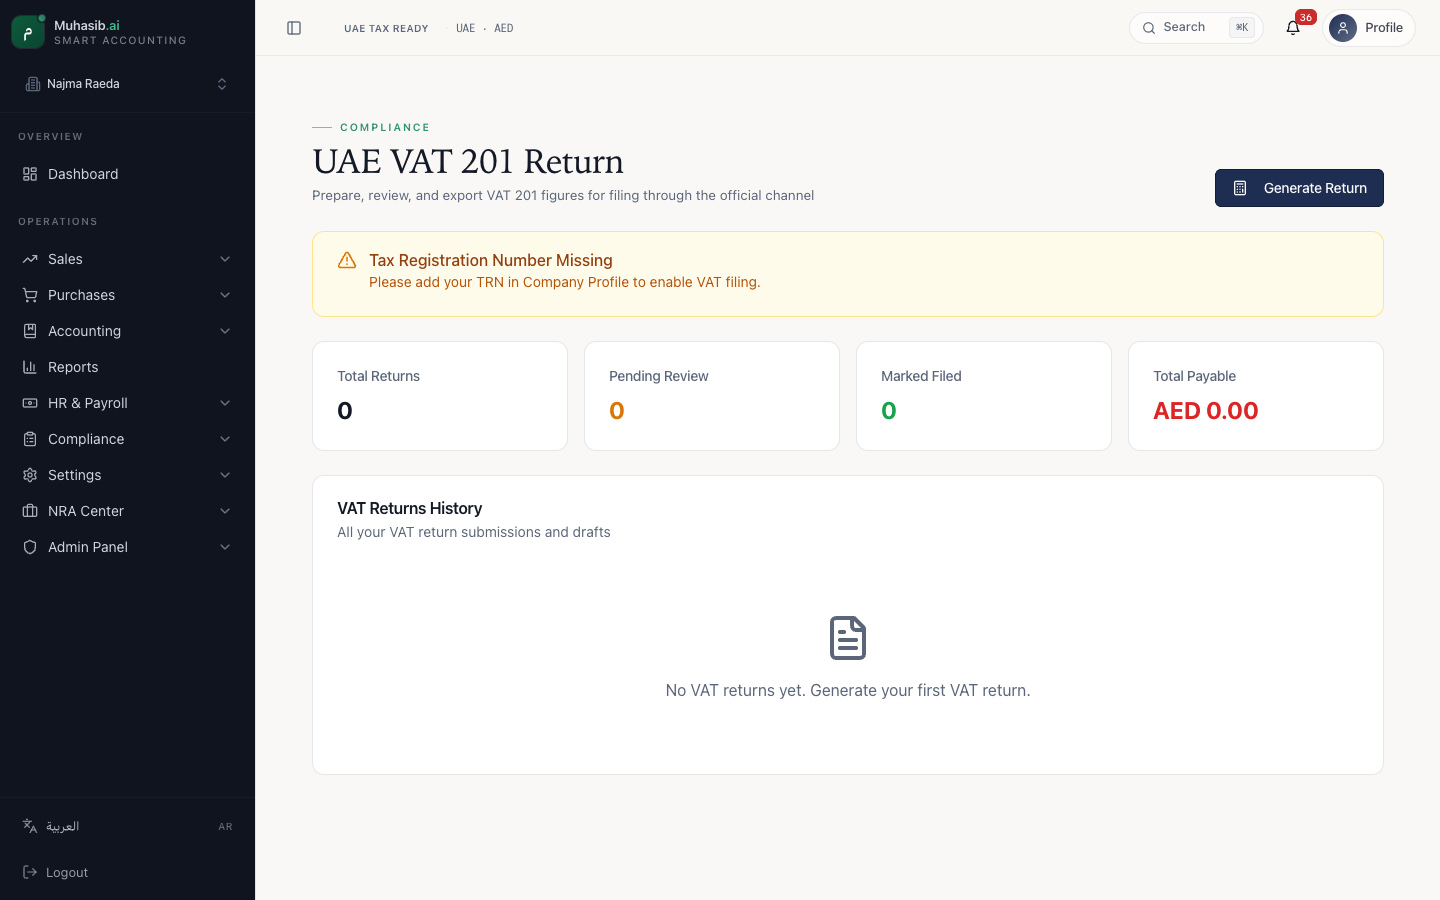
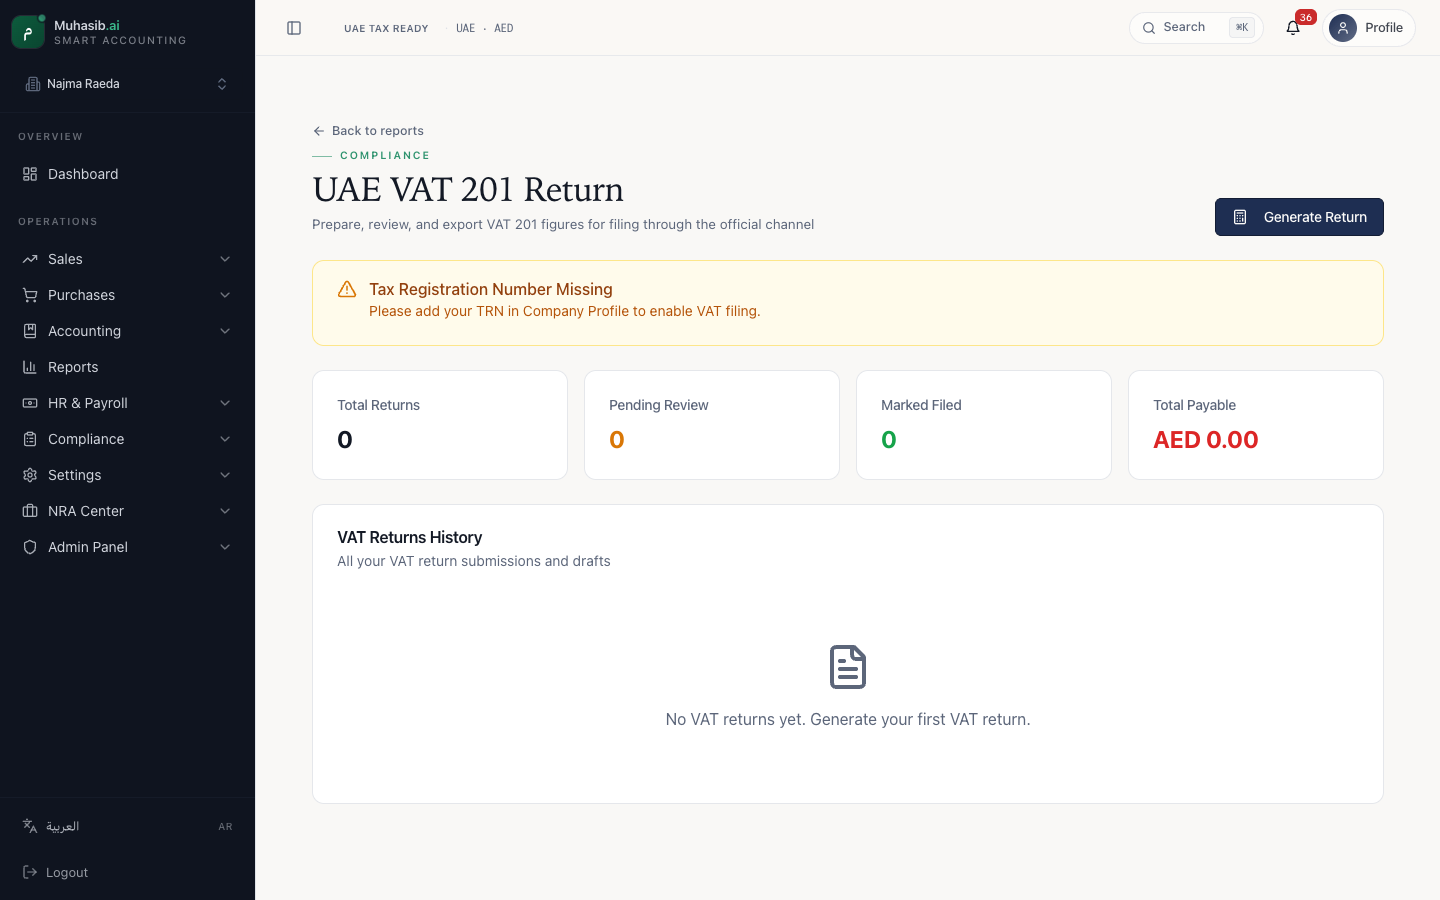
Harden benchmark crawl rate limits

diff --git a/server/middleware/rateLimit.ts b/server/middleware/rateLimit.ts
@@ -171,9 +171,9 @@ export const limiterProfiles = {
   read: {
     // Relaxed for GET-heavy dashboards: each page view fires 8-15 GETs and
     // shared office IPs multiply that, so the ceiling must stay far above
-    // legitimate navigation while still capping abuse.
+    // legitimate navigation/report review crawls while still capping abuse.
     windowMs: envInt("RL_READ_WINDOW_MS", 60_000),
-    max: envInt("RL_READ_MAX", 1200),
+    max: envInt("RL_READ_MAX", 3000),
     message: "Too many requests. Please try again later.",
   } as RouteLimit,
 };

diff --git a/docs/qa/2026-06-21-benchmark-audit/03-cfo-audit-report.md b/docs/qa/2026-06-21-benchmark-audit/03-cfo-audit-report.md
@@ -22,5 +22,3 @@ Muhasib.ai has enough benchmark evidence to rank gaps, but any score below 5 mea
 | Priority |Area |Finding |Evidence |Required fix |
 | --- |--- |--- |--- |--- |
 | P1 |Rate-limit pressure |/reports hit API 429 during benchmark crawl. |{"blank":true,"failureText":null,"pageErrors":[],"apiFailures":["GET 429 https://nr-ai-production.up.railway.app/api/companies","GET 429 https://nr-ai-production.up.railway.app/api/auth/me"]} |Tune audit pacing or production read-rate limits; confirm normal manual usage is unaffected. |
-| P1 |Report shell |Cash Flow Statement is missing benchmark shell controls. |back=false, export=false, period=true |Bring report into shared shell or add equivalent back/export/period controls. |
-| P1 |Report shell |VAT Return is missing benchmark shell controls. |back=false, export=true, period=true |Bring report into shared shell or add equivalent back/export/period controls. |

diff --git a/docs/qa/2026-06-21-benchmark-audit/competitor-scorecard.md b/docs/qa/2026-06-21-benchmark-audit/competitor-scorecard.md
@@ -18,7 +18,7 @@ Target: https://nr-ai-production.up.railway.app
 | --- |--- |--- |
 | Accounting integrity |2 |GL balances, subledger tie-outs, period lock, audit trail. |
 | UAE tax and compliance |2 |VAT 201, corporate tax, WPS, e-invoice readiness, Arabic/RTL. |
-| Report center and precision |3 |Catalog discovery, one-report view, source basis, export, drilldown. |
+| Report center and precision |4 |Catalog discovery, one-report view, source basis, export, drilldown. |
 | Receivables and payables |3 |Invoices, credit notes, customer/vendor balances, bills, payments. |
 | Banking and reconciliation |3 |Statement import, match rules, unreconciled queue, cash proof. |
 | Payroll, inventory, and assets |3 |Payroll/WPS, inventory valuation/movement, fixed assets, depreciation. |

diff --git a/docs/qa/2026-06-21-benchmark-audit/02-reviewer-memo.md b/docs/qa/2026-06-21-benchmark-audit/02-reviewer-memo.md
@@ -14,8 +14,8 @@
 | --- |--- |--- |--- |--- |--- |--- |
 | Profit & Loss |Financial Statements |Pass |yes |yes |yes |screenshots/report-profit-loss.png |
 | Balance Sheet |Financial Statements |Pass |yes |yes |yes |screenshots/report-balance-sheet.png |
-| Cash Flow Statement |Financial Statements |Pass |no |no |yes |screenshots/report-cash-flow.png |
-| VAT Return |Tax |Pass |no |yes |yes |screenshots/report-vat-return.png |
+| Cash Flow Statement |Financial Statements |Pass |yes |yes |yes |screenshots/report-cash-flow.png |
+| VAT Return |Tax |Pass |yes |yes |yes |screenshots/report-vat-return.png |
 | General Ledger |Accountant Tools |Pass |yes |yes |yes |screenshots/report-general-ledger.png |
 
 ## Reviewer Verdict
